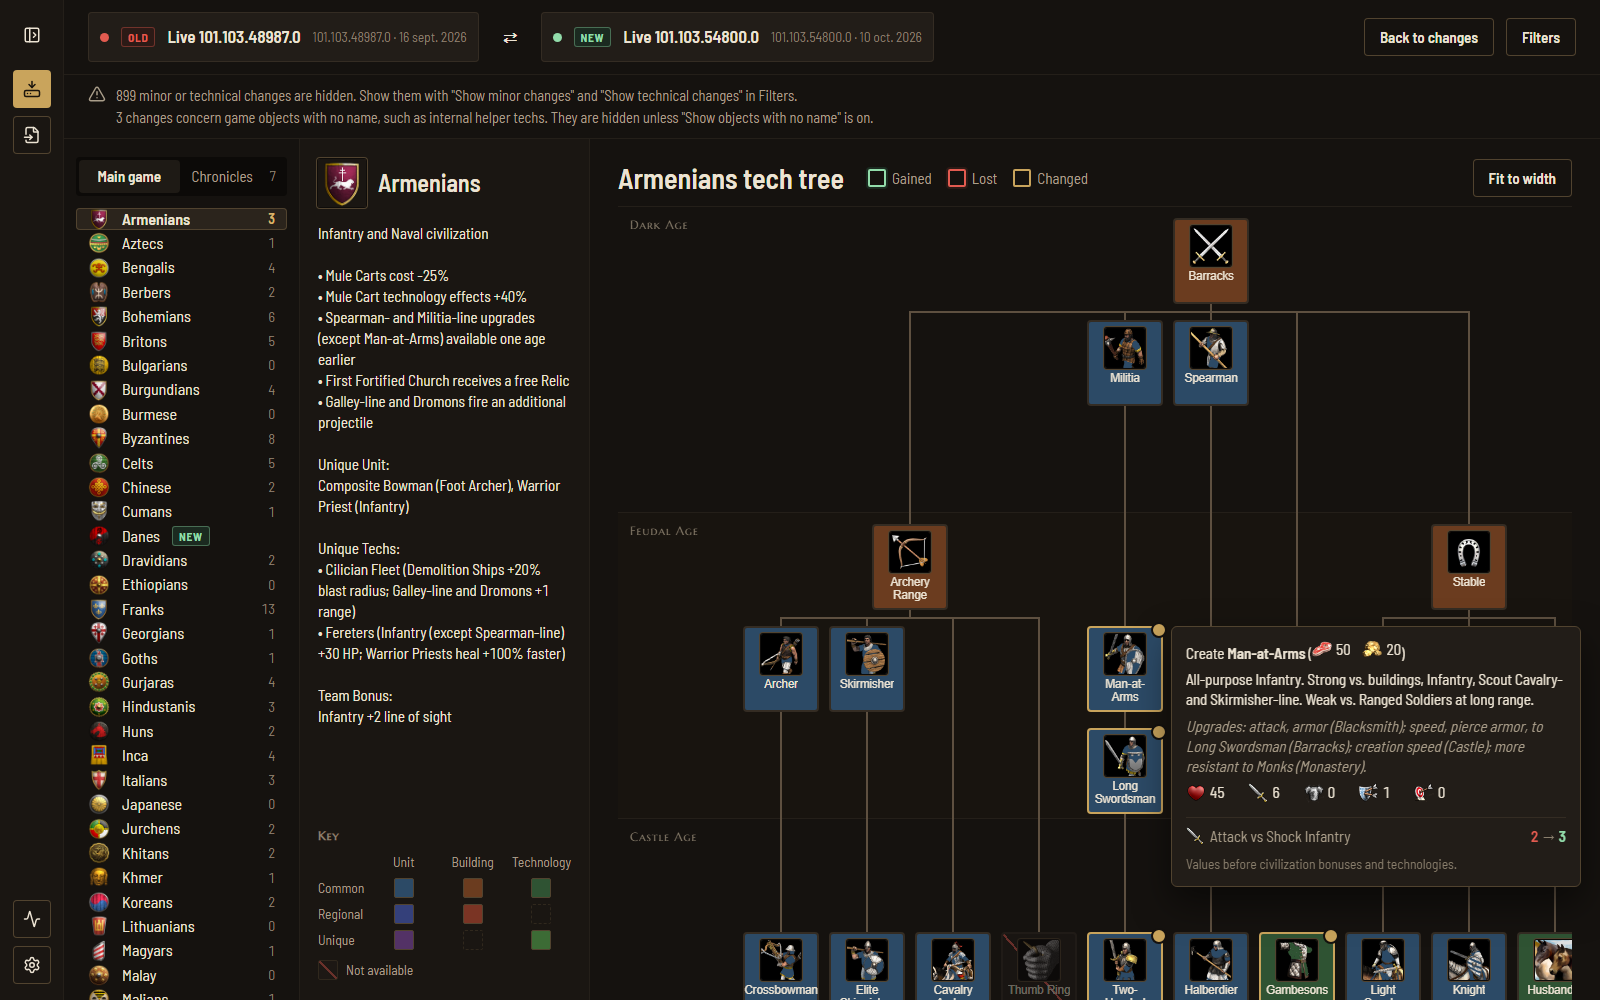
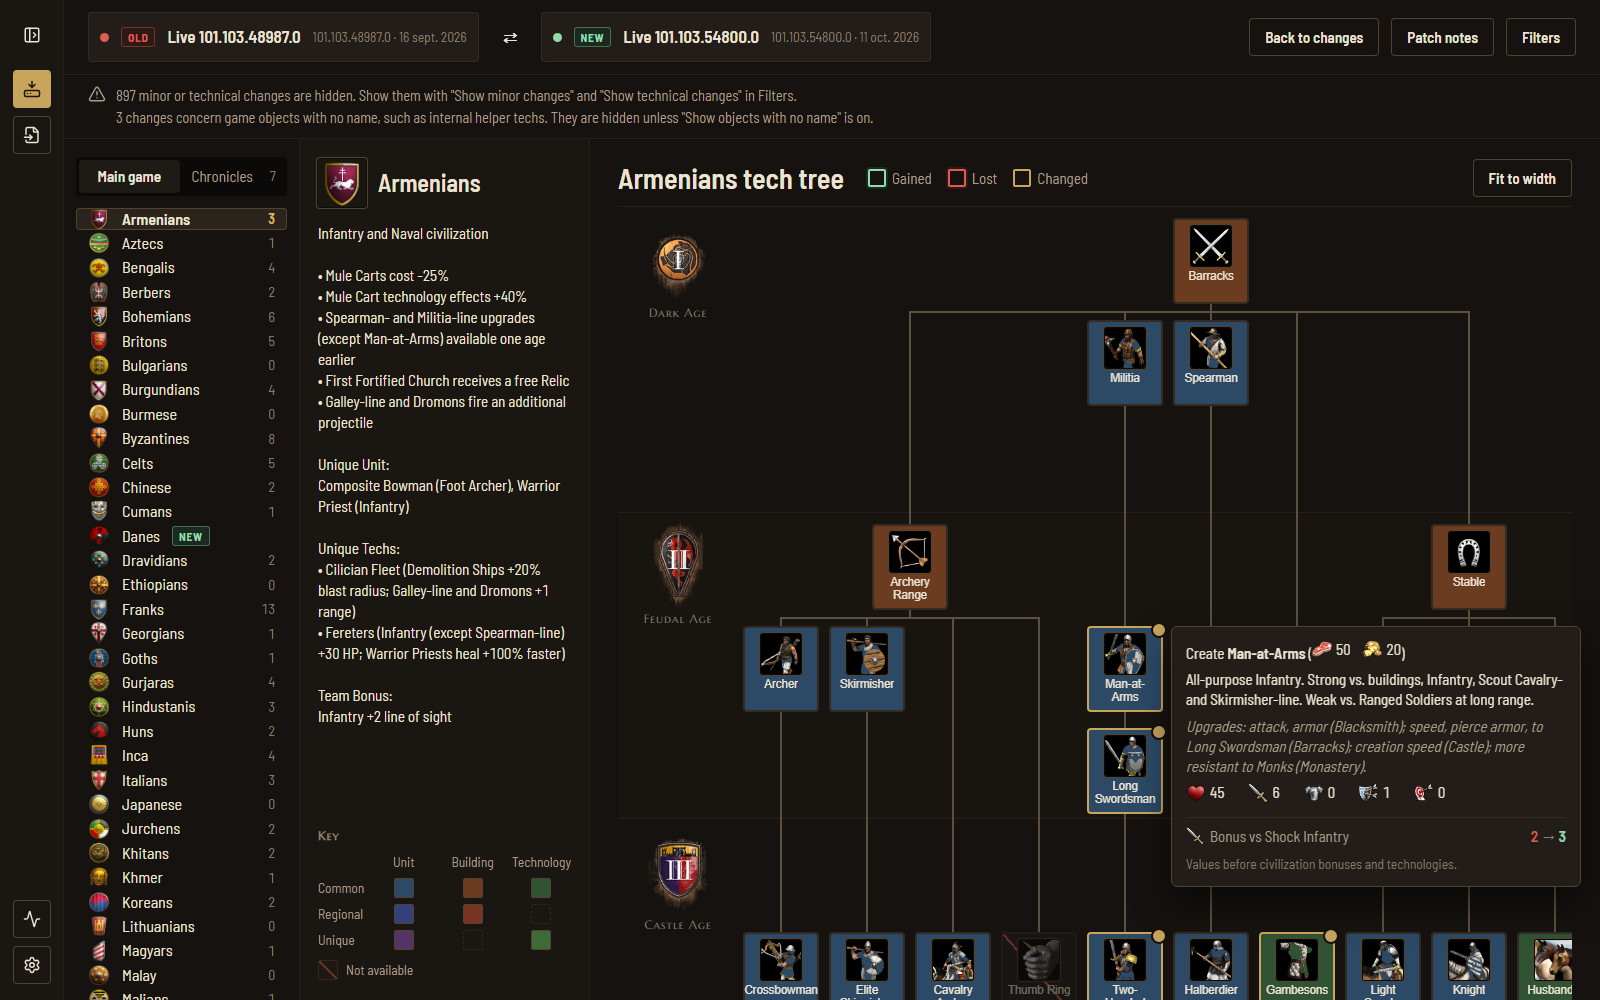
docs(readme): lead with the patch notes and bring the status up to 0.3.0 (#69)
The README opened on the detailed Overall page, but a comparison now opens
on its patch notes (D-51). Lead with a screenshot of them, retake the civ
page and tech tree shots on the current UI (age shields, new toolbar), and
replace the stale "preparing v1.0" status in the README, roadmap and
AGENTS.md now that 0.1.0 to 0.3.0 are out.

diff --git a/README.md b/README.md
@@ -2,11 +2,11 @@
 
 Find out what changed in *Age of Empires II: Definitive Edition* between two game builds, without waiting for patch notes.
 
-> **Status: preparing v1.0.** The app captures, compares, exports and draws tech trees for real; the first release is being prepared. Progress is tracked in the [roadmap](docs/roadmap.md).
+> **Status: early releases.** Version 0.3.0 is out on the [releases page](https://github.com/MiniWolskys/aoe2-patch-scout/releases). The `0.x` versions aren't code-signed yet; 1.0.0 will be the first signed one. Progress is tracked in the [roadmap](docs/roadmap.md).
 
-![The changes of a patch for every civilization: a few lines, with the civs each one applies to](docs/images/comparison-overall.png)
+![Patch notes written by Patch Scout: general changes such as "Militia line bonus vs Shock Infantry increased: Man-at-Arms 2 → 3, Long Swordsman 6 → 8…", then one block per civilization](docs/images/patch-notes.png)
 
-<p align="center"><em>Update 185872 (101.103.48987.0 → 101.103.54800.0): what changed for every civilization.</em></p>
+<p align="center"><em>Update 185872 (101.103.48987.0 → 101.103.54800.0), as patch notes written from the game data alone.</em></p>
 
 ## Why
 
@@ -15,7 +15,8 @@ Content creators often get early builds (pre-release, PUP) before any patch note
 ## Features
 
 - **Capture** a snapshot of any AoE2:DE install. The app looks for the game and shows you the folder it found; you can always pick another one, e.g. a pre-release build.
-- **Compare** two snapshots and get the changes, page by page: Overall for what changed for everyone, then one page per civilization, with game icons. The Chronicles civilizations have their own tab.
+- **Patch notes** written like the official ones, the first thing you see after a comparison: "Militia line bonus vs Shock Infantry increased: Man-at-Arms 2 → 3, Long Swordsman 6 → 8…", "Gain access to Treadmill Crane". General changes first, then one block per civilization, ready to paste into a video description, a Reddit post or Discord.
+- **Detailed changes,** one click away: Overall for what changed for everyone, then one page per civilization, with game icons. The Chronicles civilizations have their own tab.
   - new or removed civilizations;
   - units, techs and buildings gained or lost, per civ;
   - civ bonus and team bonus texts, line by line in the game's own wording, with the words that changed marked;
@@ -26,8 +27,7 @@ Content creators often get early builds (pre-release, PUP) before any patch note
 - **Tech tree:** a civ's tree laid out like the game's, with what it gained, lost or had changed marked on it, and its bonuses on the side. Hover a unit or tech for the game's own tooltip, with changed values old → new.
 - **Look around before a patch:** click a version to see its tech tree on its own, with every unit's stats.
 - **Details:** click a unit, building or tech, in the tree or the change list, for all its stats in both versions and, for a civ, every bonus and technology that affects it.
-- **Export** as plain text (for video descriptions), a single HTML page, or 1920 × 1080 images for videos, with only the changes you chose to show.
-- **Patch notes** written like the official ones ("(Elite) Throwing Axeman range increased from 3 → 5, Elite 4 → 6", "Gain access to Treadmill Crane"), ready to paste into a video description, a Reddit post or Discord.
+- **Export** the patch notes as text to copy or save, or the detailed changes as plain text, a single HTML page, or 1920 × 1080 images for videos, with only the changes you chose to show.
 - **Organise your snapshots:** rename them, add notes, mark the ones from pre-release builds, and export or import a version as a single file.
 - **Diagnostics:** if something looks wrong, one screen shows how each file was read and checked, and copies a report for a bug report without any game data.
 - **A snapshot of the current live build is published with every release,** so you can compare even if you installed after the patch dropped.
@@ -35,7 +35,7 @@ Content creators often get early builds (pre-release, PUP) before any patch note
 
 ## Screenshots
 
-**A civilization's page:** its bonus text with the line that changed, and its unit changes.
+**Detailed changes for a civilization:** its bonus text with the line that changed, and its unit changes.
 
 ![The Vietnamese page: the bonus text with the changed line in red and green, and two unit changes](docs/images/comparison-civ.png)
 

diff --git a/docs/roadmap.md b/docs/roadmap.md
@@ -1,8 +1,8 @@
 # Roadmap
 
-**Status on 2026-10-10:** M0 to M3 are done. M4 is done, including the tech tree view the maintainer moved before v1.0 (D-39). M5 has a working build, the release files and steps, but no release yet: the first one is made by hand by the maintainer. The checks that need a PUP branch or a Microsoft Store install are still deferred.
+**Status on 2026-10-12:** M0 to M4 are done, including the tech tree view the maintainer moved before v1.0 (D-39). M5 shipped unsigned releases `v0.1.0` to `v0.3.0`, each with a baseline pack; `v1.0.0` will be the first signed one (D-48). The checks that need a PUP branch or a Microsoft Store install are still deferred.
 
-The app captures a real install, gates the `.dat`, compares two versions and exports the result as text or HTML. What is left before v1.0 is listed under each milestone below.
+The app captures a real install, gates the `.dat`, compares two versions, writes patch notes, draws tech trees and exports the result as text, HTML or images. What is left before v1.0 is listed under each milestone below.
 
 **How milestones run:**
 - Design that goes beyond `docs/design/` is agreed in an issue first, then recorded in `docs/design/` and `docs/decisions.md` together with the code.
@@ -154,11 +154,13 @@ Goal: remove the biggest unknowns before building on them. Spike code is throwaw
 **Exit criteria**
 - [x] `uv run pyinstaller packaging/patch-scout.spec` produces a one-folder build that runs and compares real captures (217 files, 40.8 MB).
 - [x] `COPYING.LESSER` (the LGPLv3 text) and the exe icon, 2026-10-10.
-- [ ] **Not done:** the baseline pack, release notes, the 3.13 smoke test, and the walkthrough on a clean machine.
+- [x] Baseline pack and release notes, published with every release from `v0.1.0` (2026-10-10).
+- [ ] **Not done:** the 3.13 smoke test, and the walkthrough on a clean machine.
 
 ## After v0.1.0
 
 - [x] **Patch notes** (D-51), 2026-10-12: the comparison written like the official notes, in the app and as light Markdown to paste.
+- [x] **A version on its own** (D-52), 2026-10-12: clicking a version opens its tech tree, with every unit's stats; released in `v0.3.0`.
 - Apply to the SignPath Foundation; add the code signing policy page and the signing step to the release workflow (O-6). The first signed release is `v1.0.0` (D-48).
 - **Civ overview** (D-39): the rest of the overview beyond the tech tree, i.e. one civ's bonuses and stats in a version, with a comparison's changes highlighted. One unit, building or tech at a time is covered by the details drawer (D-49).
 

diff --git a/AGENTS.md b/AGENTS.md
@@ -13,7 +13,7 @@ It's for streamers and YouTubers who get pre-release builds without patch notes.
 
 - **Stack:** Python core, pywebview GUI (plain HTML/CSS/JS, no CLI), PyInstaller Windows build, [genieutils-py](https://github.com/SiegeEngineers/genieutils-py) for the `.dat`. Licence GPL-3.0-or-later.
 - **Names:** Python package `patch_scout`, entry point `patch-scout`.
-- **Status:** M0-M3 done; M4 done, including the tech tree view (D-39); M5 has a working PyInstaller build but no release. The app captures, compares and exports for real. What is left is listed per milestone in [docs/roadmap.md](docs/roadmap.md).
+- **Status:** M0-M4 done, including the tech tree view (D-39) and patch notes (D-51); M5 shipped unsigned releases up to `v0.3.0`, and `v1.0.0` will be the first signed one (D-48). The app captures, compares and exports for real. What is left is listed per milestone in [docs/roadmap.md](docs/roadmap.md).
 
 ## Where things are documented
 
